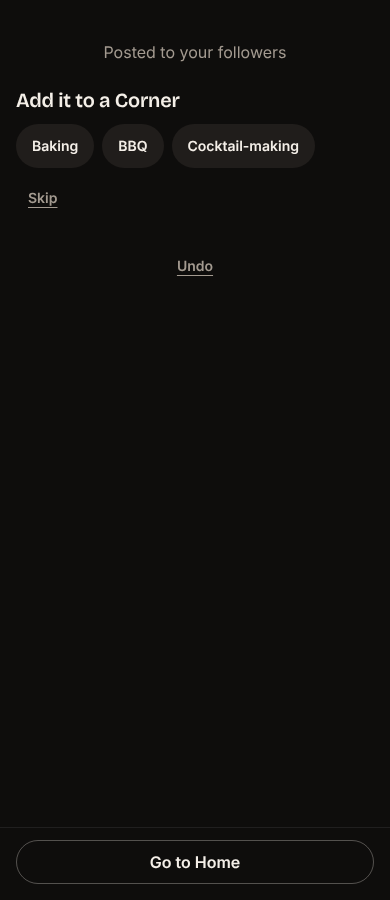
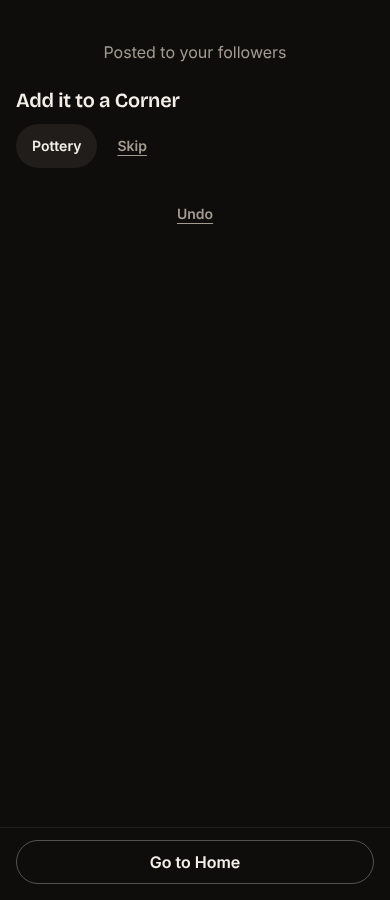
Corner on a Moment: a Pursuit's Corner counts as the tap again; chips ranked by posted-in, followed, city this week; tests
Claude-Session: https://claude.ai/code/session_018oaVFJyrp4YxBLoC8c9YtR

diff --git a/src/app/pages/Log.tsx b/src/app/pages/Log.tsx
@@ -29,6 +29,7 @@ import { classifyMomentType } from "../lib/momentType";
 import { convertHeicFiles, convertHeicIfNeeded, isHeicFile } from "../lib/heicConversion";
 import { useContent } from "../context/ContentContext";
 import { useAuth } from "../context/AuthContext";
+import { useSocial } from "../context/SocialContext";
 import { useSettings } from "../context/SettingsContext";
 import { useRewards } from "../context/RewardsContext";
 import { addProgress, removeProgress, startProject, useJournal } from "../lib/journal";
@@ -78,7 +79,8 @@ import { Segmented } from "../components/ui/Segmented";
 import { PostedScreen, LOG_PHOTO_LAYOUT_ID, type PostedAudience } from "../components/log/PostedScreen";
 import { haptic, shared as sharedSpring, sheet as sheetSpring } from "../lib/motionTokens";
 import { withLine } from "../lib/withLine";
-import { suggestCorners } from "../lib/cornerSuggestions";
+import { MAX_CORNER_SUGGESTIONS, type CornerSuggestion, cornersPostedIn, fetchCityCornerCounts, followedCornerKeys, rankCornerSuggestions, topCityCorners } from "../lib/cornerSuggestions";
+import { useInterests } from "../lib/interests";
 import { Camera as CameraGlyph, ChevronRight } from "lucide-react";
 
 /**
@@ -240,7 +242,7 @@ function ForSaleComingSoon({ className = "" }: { className?: string }) {
 
 export function Log({ onboarding }: { onboarding?: { onDone: () => void } } = {}) {
   const [searchParams] = useSearchParams();
-  const { addPost, updatePost, deletePost, mediaError, clearMediaError, saveError, clearSaveError } = useContent();
+  const { addPost, updatePost, myPosts, deletePost, mediaError, clearMediaError, saveError, clearSaveError } = useContent();
   const { user, profile, isConfigured } = useAuth();
   const { defaultVisibility, defaultVisibilityLoaded } = useSettings();
   const rewards = useRewards();
@@ -296,15 +298,19 @@ export function Log({ onboarding }: { onboarding?: { onDone: () => void } } = {}
     if (spaceSet) return;
     if (hobbies.find((h) => h.slug === hobbySlug)?.hidden) setHobbySlug(defaultSpaceSlug());
   }, [spaceRows, spaceSet, hobbySlug]);
-  const [subHobby, setSubHobby] = useState<string>(searchParams.get("sub") ?? "");
+  const [subHobby, setSubHobby] = useState<string>(searchParams.get("sub") ?? initialPursuit?.subHobby ?? "");
   // Independent of subHobby — a Moment can be tagged Woodwork (subHobby,
   // still set above via TagsField's Corner-name matching) and filed under
   // the Gift-making Corner (this) at once.
   //
-  // Optional. Only ever set by a tap: the Activity row here, a Corner's own
-  // "create" link (?sub=), or a suggestion chip on Posted. Never filled from a
-  // Pursuit or guessed from tags or the last Moment.
-  const [corner, setCorner] = useState<string>(() => searchParams.get("sub") ?? "");
+  // Optional. Set by something the person chose that carries a Corner: the
+  // Activity row, a Pursuit (picked in Counts toward, or the one Log was opened
+  // from), a Corner's own "create" link (?sub=), or a chip on Posted. Never
+  // guessed from tags or the last Moment.
+  const [corner, setCorner] = useState<string>(() => {
+    if (initialPursuit?.subHobby) return initialPursuit.subHobby;
+    return searchParams.get("sub") ?? "";
+  });
   const [projectId, setProjectId] = useState<string>(initialPursuitId);
   const [projectTitle, setProjectTitle] = useState("");
   // A Pursuit with a measure (10 loaves, 5 paintings) can take an amount from
@@ -490,6 +496,7 @@ export function Log({ onboarding }: { onboarding?: { onDone: () => void } } = {}
     if (!pursuitScoped) return;
     setScreen((s) => (s === "camera" ? "caption" : s));
     setProjectId(initialPursuitId);
+    if (initialPursuit?.subHobby) setCorner((c) => c || initialPursuit.subHobby!);
     if (initialPursuit?.interest) setTags((t) => (t.length ? t : [initialPursuit.interest!]));
   }, [initialPursuitId, pursuitReady]);
 
@@ -888,6 +895,29 @@ export function Log({ onboarding }: { onboarding?: { onDone: () => void } } = {}
     const sum = summarize(selectedMeasure, [...mine, entry]);
     return `+${formatAmount(loggedAmount)} ${unitFor(selectedMeasure, loggedAmount)} · ${formatAmount(sum.current)} of ${targetText(selectedMeasure)}`;
   };
+
+  // Chips for Posted when the Moment has no Corner: Corners you have posted in,
+  // then ones you follow, then your city's most-posted this week.
+  const social = useSocial();
+  const { city: myCity } = useInterests();
+  const [cornerChoices, setCornerChoices] = useState<CornerSuggestion[]>([]);
+  useEffect(() => {
+    if (screen !== "posted" || corner) return;
+    let live = true;
+    const postedIn = cornersPostedIn(myPosts);
+    const followed = followedCornerKeys(social.followedHobbies);
+    const rank = (inCity: string[]) => rankCornerSuggestions({ postedIn, followed, inCity });
+    setCornerChoices(rank([]));
+    // The city list only matters when the first two do not fill three chips.
+    if (postedIn.length + followed.length < MAX_CORNER_SUGGESTIONS && myCity) {
+      void fetchCityCornerCounts(myCity).then((counts) => live && setCornerChoices(rank(topCityCorners(counts))));
+    }
+    return () => {
+      live = false;
+    };
+    // Chips are decided once, when Posted appears.
+    // eslint-disable-next-line react-hooks/exhaustive-deps
+  }, [screen]);
 
   const publish = async () => {
     if (saving) return;
@@ -1342,13 +1372,6 @@ export function Log({ onboarding }: { onboarding?: { onDone: () => void } } = {}
       ? (journal.progress ?? []).filter((e) => e.projectId === selectedProject.id && (e.userId ?? user?.id) === user?.id).length
       : 0;
     const cornerInfo = corner ? { spaceSlug: hobbySlug, slug: corner, name: cornerLabel } : undefined;
-    const choices = corner
-      ? []
-      : suggestCorners({
-          pursuitCorner: selectedProject ? { spaceSlug: selectedProject.hobbySlug, slug: selectedProject.subHobby } : undefined,
-          tags,
-          spaceSlug: hobbySlug,
-        });
     return (
       <div className="fixed inset-0 z-50 overflow-y-auto bg-background">
         <PostedScreen
@@ -1361,7 +1384,7 @@ export function Log({ onboarding }: { onboarding?: { onDone: () => void } } = {}
               : undefined
           }
           place={locationName.trim() || undefined}
-          cornerChoices={choices}
+          cornerChoices={corner ? [] : cornerChoices}
           onAddCorner={async (c) => {
             if (savedPostId == null) return false;
             const ok = await updatePost(savedPostId, { corner: c.slug, subHobby: c.slug, hobbySlug: c.spaceSlug });
@@ -1596,7 +1619,15 @@ export function Log({ onboarding }: { onboarding?: { onDone: () => void } } = {}
                 setProjectId(id);
                 setProjectTitle("");
                 const picked = journal.projects.find((p) => p.id === id);
-                // Its Corner is offered as a chip on Posted, not set here.
+                // Choosing a Pursuit that has a Corner counts as picking that
+                // Corner, unless one was already picked on the Activity row.
+                if (picked?.subHobby && !corner) {
+                  setCorner(picked.subHobby);
+                  if (picked.hobbySlug) {
+                    setHobbySlug(picked.hobbySlug);
+                    setSpaceSet(true);
+                  }
+                }
               }}
               onCreateNew={(title) => {
                 setProjectTitle(title);

diff --git a/src/app/lib/cornerSuggestions.ts b/src/app/lib/cornerSuggestions.ts
@@ -1,4 +1,7 @@
-import { hobbies, isBrowsableCorner, findSpaceForInterest } from "../data/hobbies";
+import { allSubHobbies, isBrowsableCorner } from "../data/hobbies";
+import { supabase } from "../../lib/supabase";
+import { postCornerKey } from "./cornerAlias";
+import type { Post } from "../data/posts";
 
 export interface CornerSuggestion {
   spaceSlug: string;
@@ -7,35 +10,96 @@ export interface CornerSuggestion {
 }
 
 export const MAX_CORNER_SUGGESTIONS = 3;
+export const CITY_WINDOW_DAYS = 7;
+
+function toSuggestion(key: string): CornerSuggestion | undefined {
+  const [spaceSlug, slug] = key.split("/");
+  const sub = allSubHobbies.find((s) => s.hobbySlug === spaceSlug && s.slug === slug);
+  if (!sub || !isBrowsableCorner(spaceSlug, slug)) return undefined;
+  return { spaceSlug, slug, name: sub.label };
+}
+
+/**
+ * Corner keys ("space/slug") from the Moments someone posted, the Corner of the
+ * most recent Moment first, each Corner once.
+ */
+export function cornersPostedIn(posts: readonly Pick<Post, "hobbySlug" | "corner" | "subHobby" | "createdAt">[]): string[] {
+  const seen = new Set<string>();
+  const out: string[] = [];
+  for (const p of [...posts].sort((a, b) => b.createdAt - a.createdAt)) {
+    const k = postCornerKey(p);
+    if (k && !seen.has(k)) {
+      seen.add(k);
+      out.push(k);
+    }
+  }
+  return out;
+}
+
+/** Followed Corner slugs to keys, in the order they were followed, for the Corners that exist. */
+export function followedCornerKeys(slugs: readonly string[]): string[] {
+  const out: string[] = [];
+  for (const slug of slugs) {
+    const sub = allSubHobbies.find((s) => s.slug === slug);
+    if (sub) out.push(`${sub.hobbySlug}/${sub.slug}`);
+  }
+  return out;
+}
+
+/** City counts to keys, most Moments first (ties A to Z by key, so the order is stable). */
+export function topCityCorners(counts: ReadonlyMap<string, number>): string[] {
+  return [...counts.entries()].sort((a, b) => b[1] - a[1] || a[0].localeCompare(b[0])).map(([k]) => k);
+}
 
 /**
  * Up to three Corners to offer on Posted for a Moment that has none. Only ever
- * offered: nothing here is applied until the person taps a chip. In order: the
- * Corner of the Pursuit it counts toward, Corners named by its tags, then other
- * Corners in its Space (A to Z).
+ * offered: nothing is applied until the person taps a chip. In order: Corners
+ * they have posted in (most recent first), then Corners they follow, then the
+ * most-posted Corners in their city this week. Never alphabetical, each Corner
+ * once, and none the Moment already has.
  */
-export function suggestCorners(input: {
-  pursuitCorner?: { spaceSlug?: string; slug?: string };
-  tags?: readonly string[];
-  spaceSlug?: string;
+export function rankCornerSuggestions(input: {
+  postedIn: readonly string[];
+  followed: readonly string[];
+  inCity: readonly string[];
 }): CornerSuggestion[] {
   const out: CornerSuggestion[] = [];
-  const add = (spaceSlug: string | undefined, slug: string | undefined) => {
-    if (!spaceSlug || !slug || out.length >= MAX_CORNER_SUGGESTIONS) return;
-    if (out.some((c) => c.slug === slug)) return;
-    const name = hobbies.find((h) => h.slug === spaceSlug)?.subItems.find((s) => s.slug === slug)?.label;
-    if (name) out.push({ spaceSlug, slug, name });
-  };
-
-  add(input.pursuitCorner?.spaceSlug, input.pursuitCorner?.slug);
-  for (const tag of input.tags ?? []) {
-    const match = findSpaceForInterest(tag);
-    if (match) add(match.hobbySlug, match.slug);
-  }
-  const space = hobbies.find((h) => h.slug === input.spaceSlug);
-  if (space) {
-    const rest = space.subItems.filter((s) => isBrowsableCorner(space.slug, s.slug)).sort((a, b) => a.label.localeCompare(b.label));
-    for (const s of rest) add(space.slug, s.slug);
+  const seen = new Set<string>();
+  for (const key of [...input.postedIn, ...input.followed, ...input.inCity]) {
+    if (out.length >= MAX_CORNER_SUGGESTIONS) break;
+    if (seen.has(key)) continue;
+    seen.add(key);
+    const s = toSuggestion(key);
+    if (s) out.push(s);
   }
   return out;
+}
+
+/**
+ * Public Moments from the last 7 days whose place names this city, counted by
+ * Corner. Moments with their place hidden are left out. A failure is an empty map.
+ */
+export async function fetchCityCornerCounts(city: string, now = Date.now()): Promise<Map<string, number>> {
+  const counts = new Map<string, number>();
+  const q = city.trim().replace(/[%,()]/g, " ").trim();
+  if (!supabase || !q) return counts;
+  try {
+    const since = new Date(now - CITY_WINDOW_DAYS * 86400000).toISOString();
+    const { data, error } = await supabase
+      .from("posts")
+      .select("hobby_slug, sub_hobby, corner")
+      .eq("visibility", "public")
+      .neq("location_privacy", "hidden")
+      .ilike("location_name", `%${q}%`)
+      .gte("created_at", since)
+      .limit(500);
+    if (error || !data) return counts;
+    for (const row of data) {
+      const k = postCornerKey({ hobbySlug: row.hobby_slug as string, corner: (row.corner as string) ?? undefined, subHobby: (row.sub_hobby as string) ?? undefined });
+      if (k) counts.set(k, (counts.get(k) ?? 0) + 1);
+    }
+  } catch {
+    /* best effort */
+  }
+  return counts;
 }

diff --git a/src/app/lib/cornerSuggestions.test.ts b/src/app/lib/cornerSuggestions.test.ts
@@ -1,26 +1,59 @@
 import { describe, expect, it } from "vitest";
-import { hobbies } from "../data/hobbies";
-import { MAX_CORNER_SUGGESTIONS, suggestCorners } from "./cornerSuggestions";
+import { allSubHobbies, isBrowsableCorner } from "../data/hobbies";
+import { MAX_CORNER_SUGGESTIONS, cornersPostedIn, followedCornerKeys, rankCornerSuggestions, topCityCorners } from "./cornerSuggestions";
 
-const space = hobbies.find((h) => h.subItems.length >= 5 && !h.hidden)!;
-const [a, b] = space.subItems;
+const real = allSubHobbies.filter((s) => isBrowsableCorner(s.hobbySlug, s.slug));
+const key = (i: number) => `${real[i].hobbySlug}/${real[i].slug}`;
+const post = (i: number, createdAt: number) => ({ hobbySlug: real[i].hobbySlug, corner: real[i].slug, subHobby: undefined, createdAt });
 
-describe("suggestCorners", () => {
-  it("never offers more than three", () => {
-    expect(suggestCorners({ spaceSlug: space.slug }).length).toBeLessThanOrEqual(MAX_CORNER_SUGGESTIONS);
+describe("cornersPostedIn", () => {
+  it("lists each Corner once, most recent Moment first", () => {
+    expect(cornersPostedIn([post(0, 1), post(1, 5), post(0, 9), post(2, 3)])).toEqual([key(0), key(1), key(2)]);
+  });
+  it("skips Moments with no Corner", () => {
+    expect(cornersPostedIn([{ hobbySlug: real[0].hobbySlug, createdAt: 1 }])).toEqual([]);
+  });
+});
+
+describe("topCityCorners", () => {
+  it("orders by most Moments, ties by key, never by name alone", () => {
+    const m = new Map([[key(3), 2], [key(1), 9], [key(2), 2]]);
+    const out = topCityCorners(m);
+    expect(out[0]).toBe(key(1));
+    expect(out.slice(1)).toEqual([key(2), key(3)].sort());
+  });
+});
+
+describe("rankCornerSuggestions", () => {
+  it("uses Corners posted in first, in the order given", () => {
+    const out = rankCornerSuggestions({ postedIn: [key(4), key(2)], followed: [key(0)], inCity: [key(1)] });
+    expect(out.map((c) => `${c.spaceSlug}/${c.slug}`)).toEqual([key(4), key(2), key(0)]);
   });
 
-  it("puts the Pursuit's Corner first, then tag matches, without repeats", () => {
-    const out = suggestCorners({ pursuitCorner: { spaceSlug: space.slug, slug: a.slug }, tags: [b.label, a.label], spaceSlug: space.slug });
-    expect(out.map((c) => c.slug).slice(0, 2)).toEqual([a.slug, b.slug]);
+  it("falls back to followed Corners when nothing was posted", () => {
+    const out = rankCornerSuggestions({ postedIn: [], followed: [key(6), key(5)], inCity: [key(1)] });
+    expect(out.map((c) => `${c.spaceSlug}/${c.slug}`)).toEqual([key(6), key(5), key(1)]);
+  });
+
+  it("falls back to the city's most-posted Corners last", () => {
+    const out = rankCornerSuggestions({ postedIn: [], followed: [], inCity: [key(7), key(8), key(9), key(10)] });
+    expect(out.map((c) => `${c.spaceSlug}/${c.slug}`)).toEqual([key(7), key(8), key(9)]);
+  });
+
+  it("offers nothing when there is no history, no follows and no city data", () => {
+    expect(rankCornerSuggestions({ postedIn: [], followed: [], inCity: [] })).toEqual([]);
+  });
+
+  it("never offers more than three or the same Corner twice, and drops unknown keys", () => {
+    const out = rankCornerSuggestions({ postedIn: [key(0), "nope/none", key(0)], followed: [key(0), key(1)], inCity: [key(1), key(2), key(3)] });
+    expect(out.length).toBe(MAX_CORNER_SUGGESTIONS);
     expect(new Set(out.map((c) => c.slug)).size).toBe(out.length);
+    expect(out.map((c) => `${c.spaceSlug}/${c.slug}`)).toEqual([key(0), key(1), key(2)]);
   });
+});
 
-  it("offers nothing for a Space it does not know and no hints", () => {
-    expect(suggestCorners({ spaceSlug: "nope" })).toEqual([]);
-  });
-
-  it("ignores a Pursuit Corner that does not exist", () => {
-    expect(suggestCorners({ pursuitCorner: { spaceSlug: space.slug, slug: "not-a-corner" } })).toEqual([]);
+describe("followedCornerKeys", () => {
+  it("maps followed Corner slugs to keys and ignores unknown ones", () => {
+    expect(followedCornerKeys([real[3].slug, "no-such-corner"])).toEqual([`${real[3].hobbySlug}/${real[3].slug}`]);
   });
 });

diff --git a/scripts/visual/run.ts b/scripts/visual/run.ts
@@ -349,6 +349,27 @@ async function main() {
         await page.locator('section[aria-labelledby="add-corner"] button[aria-pressed]').first().click(T);
         await page.getByText(/^Added to /).first().waitFor(T);
       });
+      await flow("Corner chips start with the Corner you last posted in", async () => {
+        await go("/create");
+        await page.getByRole("button", { name: "Text only, no photo or video" }).first().click(T);
+        await page.getByPlaceholder(/what happened/i).first().fill("Chip order");
+        await page.getByRole("button", { name: "Post", exact: true }).first().click(T);
+        await page.getByText("Add it to a Corner").first().waitFor(T);
+        const first = (await page.locator('section[aria-labelledby="add-corner"] button[aria-pressed]').first().innerText()).trim();
+        if (first !== "Pottery") throw new Error(`Error: first chip was ${first}`);
+      });
+      await flow("Choosing a Pursuit sets its Corner, and no chips follow", async () => {
+        await go("/create");
+        await page.getByRole("button", { name: "Text only, no photo or video" }).first().click(T);
+        await page.getByPlaceholder(/what happened/i).first().fill("Pursuit gives the corner");
+        await page.getByText("Counts toward").first().click(T);
+        await page.getByRole("button", { name: /Throw 24 bowls/ }).first().click(T);
+        await page.keyboard.press("Escape"); await page.waitForTimeout(500);
+        await page.getByText("Pottery", { exact: true }).first().waitFor(T);
+        await page.getByRole("button", { name: "Post", exact: true }).first().click(T);
+        await page.getByText(/^Posted to /).first().waitFor(T);
+        if (await page.getByText("Add it to a Corner").count()) throw new Error("Error: chips shown although the Pursuit carries a Corner");
+      });
       await flow("Corner can be skipped", async () => {
         await go("/create");
         await page.getByRole("button", { name: "Text only, no photo or video" }).first().click(T);

diff --git a/docs/corners-build-decisions.md b/docs/corners-build-decisions.md
@@ -128,7 +128,9 @@ Answers from the founder before PR 1. These override the entries above where the
 
 ### Corner on a Moment (Oct 28)
 
-- Founder rule: never assign a Corner without the user tapping it. A Moment inherits the Corner from the Activity row when one was picked. Otherwise Posted offers up to three chips (the Pursuit's Corner first, then Corners named by its tags, then others in its Space), one tap to add, with Skip. Nothing else sets a Corner: choosing a Pursuit in Counts toward and opening Log from a Pursuit no longer fill it in. A Corner's own "I did this" link (`?sub=`) still does, because the person tapped that Corner.
+- Founder rule: a Corner is never assigned without the user tapping something that carries it. Choosing an Activity, choosing a Pursuit that has a Corner (in Counts toward, or by opening Log from it) and a Corner's own "I did this" link each count as that tap. A Pursuit does not override a Corner already picked on the Activity row.
+- When nothing picked carries a Corner, Posted offers up to three chips, one tap to add, with Skip. Order: Corners the person has posted in (most recent Moment first), then Corners they follow, then the most-posted Corners in their city in the last 7 days. Never alphabetical, each Corner once. With no history, follows or city data there are no chips.
+- "In their city" is read from public Moments whose place names the city (`location_name` contains it; Moments with the place hidden are left out), because Moments have no city column. It runs only when the first two sources do not fill three chips, and a failure just means fewer chips. A city column or an RPC would be more exact and is a follow-up.
 - A Moment with no Corner keeps `corner` and `sub_hobby` empty. Home shows no Corner in its line for it.
 
 ## Open

diff --git a/docs/glossary.md b/docs/glossary.md
@@ -372,5 +372,4 @@ Strings from `docs/design/core-loop/06`, `07`, `08` and `14`, added with PR 4.
 | Skip | Dismisses the chips. The Moment stays without a Corner |
 | Couldn’t add it. Try again. | Shown if the save failed |
 
-A Corner is never set for a person. It comes from the Activity row, a Corner's own "I did this" link, or a tap on one of these chips. A Pursuit's Corner and tags are only offered as chips.
-
+A Corner is never guessed for a person. It comes from something they chose that carries one: the Activity row, a Pursuit (picked in Counts toward, or the one Log was opened from), a Corner's own "I did this" link, or a tap on one of these chips. The chips show only when nothing picked carries a Corner.
